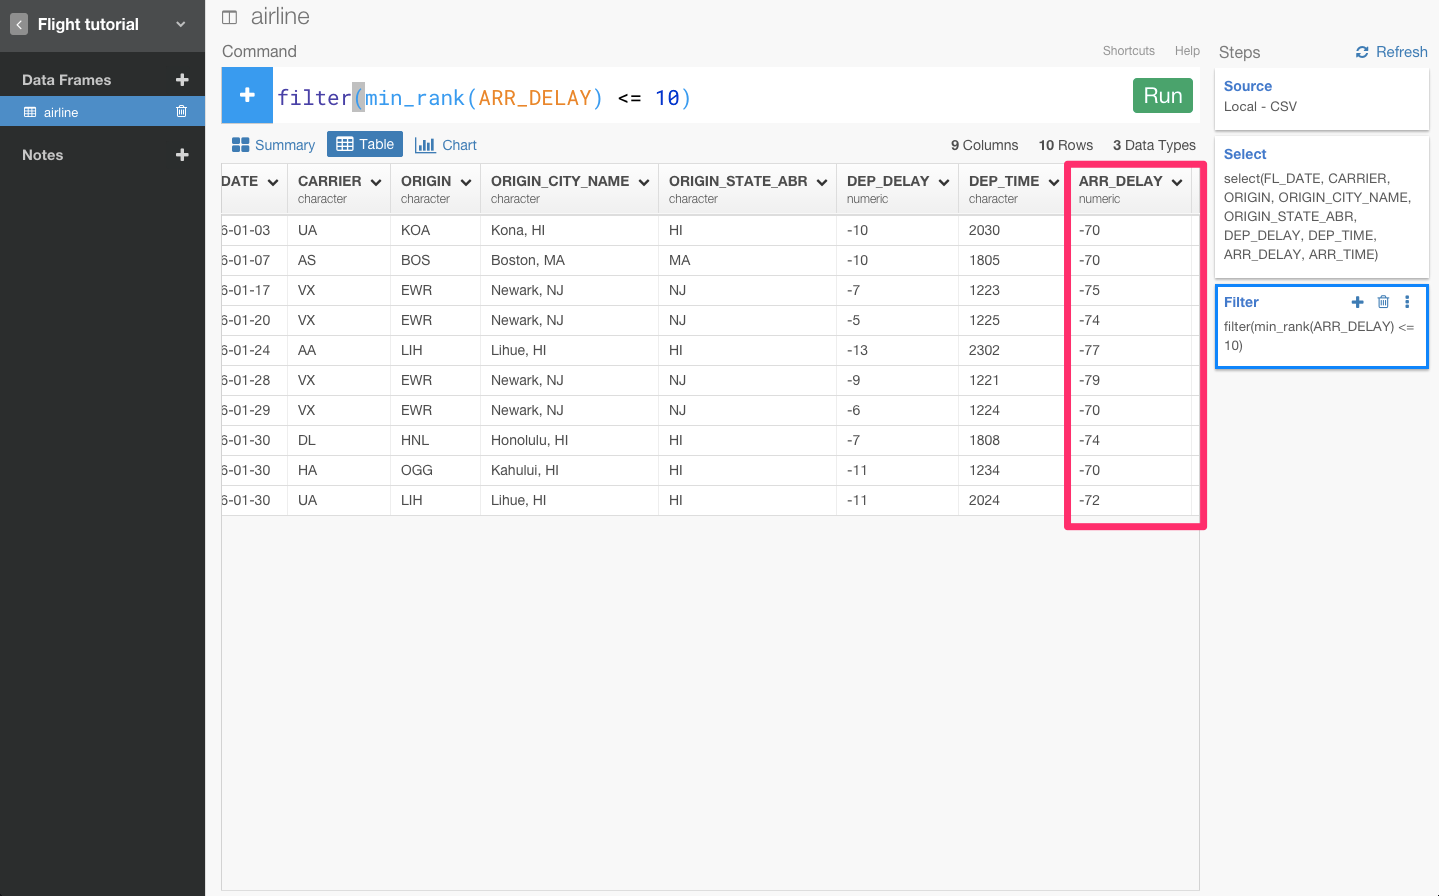
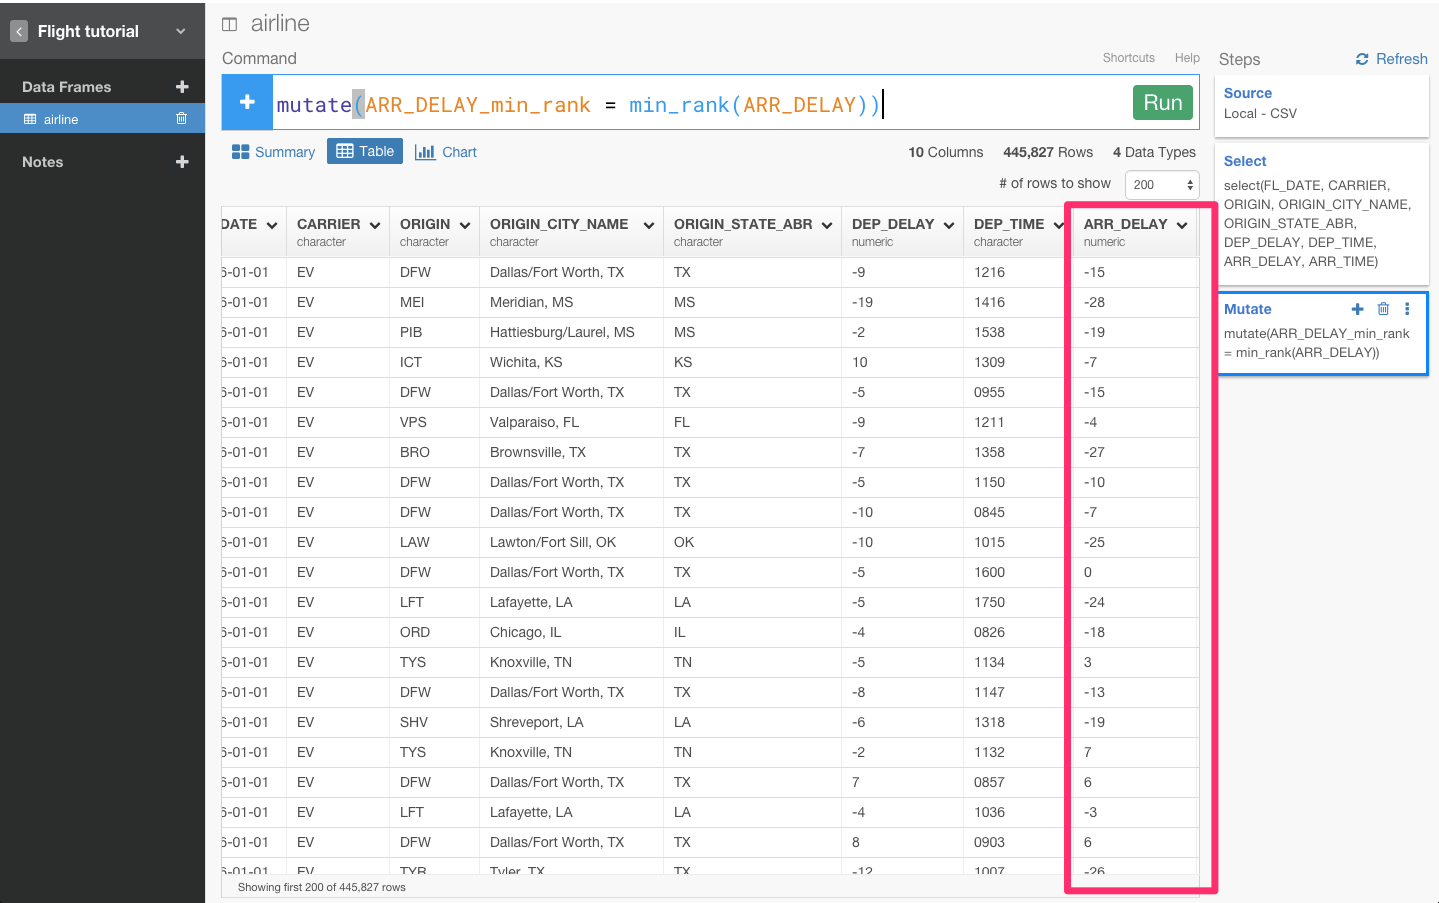
fix

diff --git a/articles/Filter-data-with-window.md b/articles/Filter-data-with-window.md
@@ -4,7 +4,7 @@
 
 この記事は、Rは知らないけど、SQLとか他のプログラミング言語はある程度やったことあるみたいな人向けです。
 
-データを簡単に集計したいと思ったことはありませんか？　データを集計することは、データ分析をする上での基本的な操作です。そのために、dplyrには、Window関数というのが備わっています。しかし本当にdplyrがすごい理由は、実はデータの加工、分析のための文法なのです。そのため、データを抽出するために元々作られたSQLや他のBIツールと違って、もっと、データを直感的に分析し、さらには分析している最中に必要であればデータの加工もしていくことが簡単にステップを重ねていくようにできます。
+データ簡単のランキングなどを簡単に計算したいと思ったことはありませんか？　そのために、dplyrには、Window関数というのが備わっています。しかし本当にdplyrがすごい理由は、実はデータの加工、分析のための文法なのです。そのため、データを抽出するために元々作られたSQLや他のBIツールと違って、もっと、データを直感的に分析し、さらには分析している最中に必要であればデータの加工もしていくことが簡単にステップを重ねていくようにできます。
 
 
 ##dplyrとは
@@ -66,44 +66,56 @@ SQLとdplyrには、データ分析の流れが、入れ子になるか、フロ
 
 ##Window関数を使ってフィルタリングする
 
-[こちら](http://qiita.com/21-Hidetaka-Ko/items/bc7766e730a60ebf4561)で説明したように、summarize関数を使ってデータを集計することは、とても強力で便利でした。しかし、まだ問題があります。例えば、「到着遅延時間が最も遅い10フライトはどこか？」という質問があったとしましょう。この質問に答えるためには、min_rank()というランキングを計算して出すための関数を使う必要があります。以下のように、filter()の中に書いていきましょう。
+[こちら](http://qiita.com/21-Hidetaka-Ko/items/bc7766e730a60ebf4561)で説明したように、summarize関数を使ってデータを集計することは、とても強力で便利でした。しかし、まだ問題があります。例えば、「到着遅延時間が最も遅い10フライトはどこか？」という質問があったとしましょう。この質問に答えるためには、min_rank()というランキングを計算して出すための関数を使う必要があります。
 
 ARR_DERAY列のヘッダーをクリックしてCalculate with Windowコマンドを選び、min_rankを選びます。
 
 ![](images/Window-min_rank.png)
 
-すると、自動的にmutate(min_rank = min_rank(ARR_DELAY))が入力されます。
+すると、自動的にmutate(ARR_DELAY_min_rank = min_rank(ARR_DELAY))が入力されます。
 
 ここで、ぼくは、 min_rank()関数を使いましたが、同じように dense_rank()という関数も存在します。どちらの関数も、指定した列のランキングを返します。違いは、 以下の図を見るとわかりやすいです。
 
 ![](images/dense_rank_min.png)
 
-
-まあいずれにせよ、質問が「到着遅延時間が最も遅い10フライトはどこか？」なので、mutateをfilterに、<= 10を加え、filter(min_rank(ARR_DELAY) <= 10)とします。そして、Runボタンを押します。
+そして、Runボタンを押します。
 
 ![](images/Window-min_rank2.png)
 
-あれ、でもARR_DELAYを注意して見てみると、ワースト10ではなくトップ10を出してしまっていますね。遅延時間が低ければ低いほど、フライトが早く到着したということを意味するからです。だから、条件を逆転させる必要があります。そういうときは、SQLのように、desc()関数が使えます。
+これで、到着時間が遅いフライトのランキングを出すことができました。質問は、「到着遅延時間が最も遅い10フライトはどこか？」なので、Filterコマンドを使い、10以下にフィルタリングします。
+
+ARR_DELAY_min_rank列のヘッダーをクリックしてFilterコマンドを選び、<=を選びます。
+
+![](images/filter_arr-delay_c.png)
+
+すると、自動的に filter(ARR_DELAY_min_rank  <= )が入力されます。そして10を入力してRunボタンを押します。
+
+![](images/arr_delay_min_rank.png)
 
 
-![](images/desc_arr_delay.png)
 
-これで、2016年1月の到着遅延時間がワースト10のデータを得ることができました。American Airlinesがたくさんありますね。面白いですね。今回は、トータルのワースト10のデータを出しましたが、会社ごとのワースト10を見てみたくありませんか？そういうときは、filterの前に、group_by()関数を加えると見ることができます。
+ mutate(ARR_DELAY_min_rank = min_rank(-ARR_DELAY))
+
+あれ、でもARR_DELAYを注意して見てみると、ワースト10ではなくトップ10を出してしまっていますね。値が低ければ低いほど、フライトが早く到着したということを意味するからです。だから、条件を逆転させる必要があります。そういうときは、-コマンドが使えます。
+
+![](images/arr_delay_min_rank.png)
+
+これで、2016年1月の到着遅延時間がワースト10のデータを得ることができました。今回は、トータルのワースト10のデータを出しましたが、会社ごとのワースト10を見てみたくありませんか？そういうときは、filterの前に、group_by()関数を加えると見ることができます。
 
 CARRIER列のヘッダーをクリックしてgroup_byを選びます。
 
-![](images/group_by_carrier.png)
+![](images/.png)
 
 すると、自動的にgroup_by(CARRIER)が入力されます。Runボタンを押します。
 
-![](images/group_by-caare.png)
+![](images/.png)
 
-意図していたことが、結果に本当に反映させられているかを、わかりやすくするために、フィルタリングの条件を<=10から<=1に変えてワースト１だけ見てみましょう。
+今度はチャートをboxplot
 
-![](images/each_group_by_cee.png)
+![](images/.png)
 
-これで、12会社それぞれの到着時間ワースト１のフライトのデータを見ることができました。
 
+これで、会社ごとの到着遅延時間ワースト10が一目瞭然になりましたね。
 
 今回のシリーズで使ったような関数のことをWindow関数と呼びます。
 以上が、dplyrでの基本的なWindow関数に関する操作です。dplyrでは、次はdate関数について書きたいと思います。お楽しみに！
